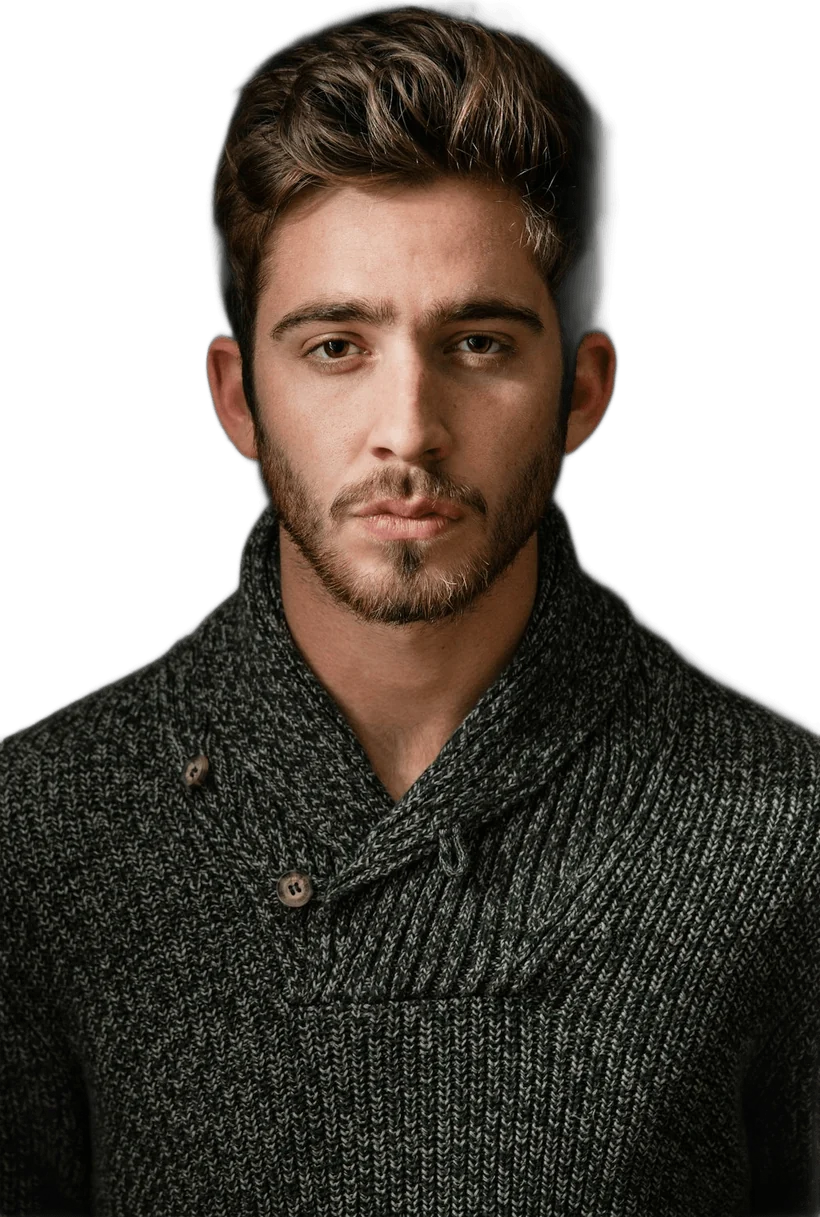
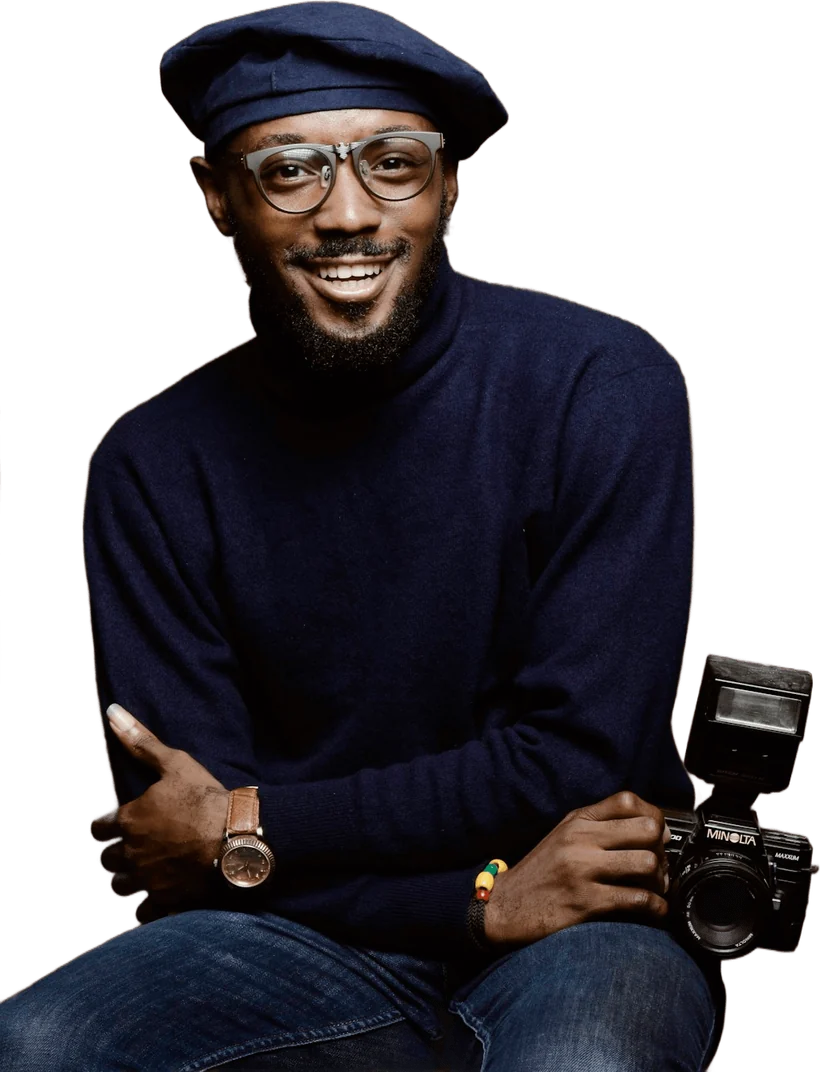
Nouveau portrait : homme africain avec lunettes

diff --git a/index.html b/index.html
@@ -222,7 +222,7 @@
             <path class="spark spark--2" d="M488 300 l2 -6 2 6 6 2 -6 2 -2 6 -2 -6 -6 -2z" />
           </svg>
           <picture class="hero__portrait" data-depth="6">
-            <img src="assets/img/portrait.webp" alt="Portrait of Mark Davis" width="820" height="1217" fetchpriority="high" />
+            <img src="assets/img/portrait.webp" alt="Portrait of Mark Davis" width="820" height="1072" fetchpriority="high" />
           </picture>
           <div class="exp-card" data-depth="34">
             <strong><span data-count="5">0</span>+</strong>
